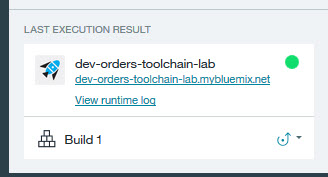
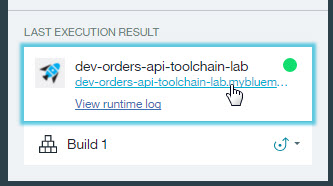
testing adding username and escape characters

diff --git a/Lab-1-Order-Pipeline.md b/Lab-1-Order-Pipeline.md
@@ -142,15 +142,16 @@ Now that you have a Git repository clone of the code, we will add a Delivery Pip
     <li>'Target' is set to "US South - https://api.ng/bluemix.net" as this is where the code will be deployed.
     <li>'Space' is set to "dev" (or Create a new space called <b>dev</b> if not on the dropdown).
     <li>'Application Name' is "orders-api-toolchain-lab".
-    <li>Type the following into the "Deploy Script" section. This will create and deploy the cloudantNoSQLDB service:
-    <br>
-    <code>cf create-service cloudantNoSQLDB Shared myMicroservicesCloudant</code>
-    then deploy the application:
-    <br>
-    <code>cf push "${CF_APP_NAME}"</code>.
-<p>
+    <li>Type the following into the "Deploy Script" section.
 <pre><code>
 #!/bin/bash
+#get user name
+a=$(cf services | grep @)
+b=${a%@\*}
+c=($b)
+len=${#c[@]}
+user_name=${c[len-1]}
+#add Cloudant service
 cf create-service cloudantNoSQLDB Shared myMicroservicesCloudant
 # Push app
 export CF_APP_NAME="dev-$CF_APP"
@@ -159,55 +160,69 @@ echo "Pushed App Name: ${CF_APP_NAME}."
 # View logs
 #cf logs "${CF_APP_NAME}" --recent
 </code></pre>    
+    This will create and deploy the cloudantNoSQLDB service:
+<p>
+    <code>cf create-service cloudantNoSQLDB Shared myMicroservicesCloudant</code>
+    then deploy the application:
+    <p>
+    <code>cf push "${CF_APP_NAME}"</code>.
     <li>'Run Conditions' is set to "Stop running this stage if this job fails" to prevent any other jobs in this stage from running and to make the stage failed is this Job fails.
-    <br>
+    <p>
     <img src="screenshots/DevStageDevJobOrderDeliveryPipeline.jpg" alt="DevStageDevJobOrderDeliveryPipeline.jpg">
     </ul>
-    <li>The bash script just entered into the Deploy Script references the <i>CF_APP_NAME</i> environment variable ($CF_APP is provided by default).  CF_APP_NAME needs to be added to the environment variables.
+    <li>The bash script just entered into the Deploy Script references the <i>CF_APP_NAME</i> environment variable (<i>CF_APP</i> is provided by default).  CF_APP_NAME needs to be added to the environment variables.
     <li>Click the <b>ENVIRONMENT PROPERTIES</b> tab.
     <li>Click <b>ADD PROPERTY</b> and select <b>Text Property</b>.
     <li>Enter "CF_APP_NAME" as the 'Name'.  Do not enter anything for the 'Value'.
     <li>Click <b>Save</b> to save the <b>Dev</b> stage.
     <li>The <b>Delivery Pipeline</b> displays the <b>Build</b> and <b>Dev</b> stages.  The <b>Dev</b> stage has not been run. Click on the <b>Run Stage</b> icon to run the <b>Dev</b> stage and deploy the order API.
-    <br>
+    <p>
     <img src="screenshots/RunningDevStageOrderDeliveryPipeline.jpg" alt="RunningDevStageOrderDeliveryPipeline">
-    <p>The JOBS section shows the Deploy was successful. Click on "View logs and history" to the Job log.
-    <br>
+    <p>The JOBS section shows the Deploy job Passed.
+    Click on the "Deploy" Jobs to to view the log for that Job.
+    <p>
+    <img src="screenshots/DeployPassed.jpg">
+    <li>Scroll to the bottom of the log to see the result.
+    <p>
     <img src="screenshots/DevStageOrderDeliveryPipelineExecutionLog.jpg" alt="DevStageOrderDeliveryPipelineExecutionLog">
-    <li>LAST EXECUTION RESULT displays the url to the successfully deployed application (dev-orders-toolchain-lab.mybluemix.net) as well as a link to the runtime log.
-    <br>
+    <li>Click on the navigation arrow to return to the orders-api-toolchain-lab Delivery Pipeline.
+    <p>
+    <img src="screenshots/DeliveryPipelineArrow.jpg" alt="DeliveryPipelineArrow">
+    <li>LAST EXECUTION RESULT displays the url to the successfully deployed application (dev-orders-api-toolchain-lab.mybluemix.net) as well as a link to the runtime log.
+    <p>
     <img src="screenshots/DevStageOrderDeliveryPipelineExecutionResult.jpg" alt="DevStageOrderDeliveryPipelineExecutionResult">
-    <br>Click on "dev-orders-toolchain-lab.mybluemix.net" to access the running application.
-    <br>
+    <li>Click on "dev-orders-api-toolchain-lab.mybluemix.net" to access the running application.
+    <p>
     <img src="screenshots/DevStageOrderDeliveryPipelineRunning.jpg" alt="DevStageOrderDeliveryPipelineRunning">
+    <li>CLose the application window.
     <p>The <b>Dev</b> stage has been successfully added and executed.
 </ol>
 
 <li>Add the <b>Test</b> stage (remember, two jobs, one to deploy to the <i>test</i> space and another to perform an automated test).  We will clone the <b>Dev</b> stage and make some modifications.
 <ol>
-    <li>Ensure the <b>Delivery Pipeline</b> is displayed.
+    <li>Ensure the orders-api-toolchain-lab <b>Delivery Pipeline</b> is displayed.
     <li>On the <b>Dev</b> stage, click the <b>Stage Configuration</b> and select "Clone Stage".
-    <br>
+    <p>
     <img src="screenshots/CloneDevStageOrderDeliveryPipeline.jpg" alt="CloneDevStageOrderDeliveryPipeline">
-    <li>Rename the cloned stage from <b>Dev [copy]</b> to <b>Test</b>.
-    <li>On the <b>Jobs</b> tab, change the space from <b>dev</b> to <b>qa</b> (or Create a new space called <b>qa</b> if not on the dropdown) and change the deploy script to change CF_APP_NAME to "test-$CF_APP" from "dev-$CF_APP".
-    <br>
+    <li>Rename the cloned stage to <b>Test</b> (from <b>Dev [copy]</b>).
+    <li>On the <b>Jobs</b> tab, change the space to <b>qa</b> (from <b>dev</b>) (or Create a new space called <b>qa</b> if not on the dropdown) and change the deploy script to change CF_APP_NAME to "test-$CF_APP" (from "dev-$CF_APP").
+    <p>
     <img src="screenshots/TestStageDeployStep.jpg" alt="TestStageDeployStep">
     <li>Add a new Job of type Test called <b>Test</b>.  There are a number of different Testers available. For this exercise, we will select the default Simple Tester. Enter the following code to the <b>Test Command</b>.
-    <pre>    
-      #!/bin/bash
-      # invoke tests here
-      echo "Testing of App Name ${CF_APP_NAME} was successful"      
-    </pre>
+<pre><code>
+#!/bin/bash
+# invoke tests here
+echo "Testing of App Name ${CF_APP_NAME} was successful"      
+</code></pre>
     <li>Click the <b>ENVIRONMENT PROPERTIES</b> tab. Note the environment variable CF_APP_NAME is already present.
     <li>Click <b>Save</b> to save the <b>Test</b> stage.
     <li>The <b>Delivery Pipeline</b> displays the <b>Build</b> and <b>Dev</b> stages.  The <b>Test</b> stage has not been run.
     Click on the <b>Run Stage</b> icon to run the <b>Test</b> stage and deploy the order API to the <i>test</i> space.
     <li>As before for the <b>Dev</b> stage, the JOBS section shows the Deploy and Test Jobs were successful. Click <b>Test</b> to display the log for the <b>Test</b> job.
-    <br>
+    <p>
     <img src="screenshots/TestStageOrderDeliveryPipelineClickTestLog.jpg" alt="TestStageOrderDeliveryPipelineClickTestLog">
     <li>The <b>Test</b> job was successful.
-    <br>
+    <p>
     <img src="screenshots/TestStageOrderDeliveryPipelineSuccessfulTestLog.jpg" alt="TestStageOrderDeliveryPipelineSuccessfulTestLog">
     <br>Click on "test-orders-toolchain-lab.mybluemix.net" to access the running application.
     <p>The <b>Test</b> stage has been successfully added and executed.
